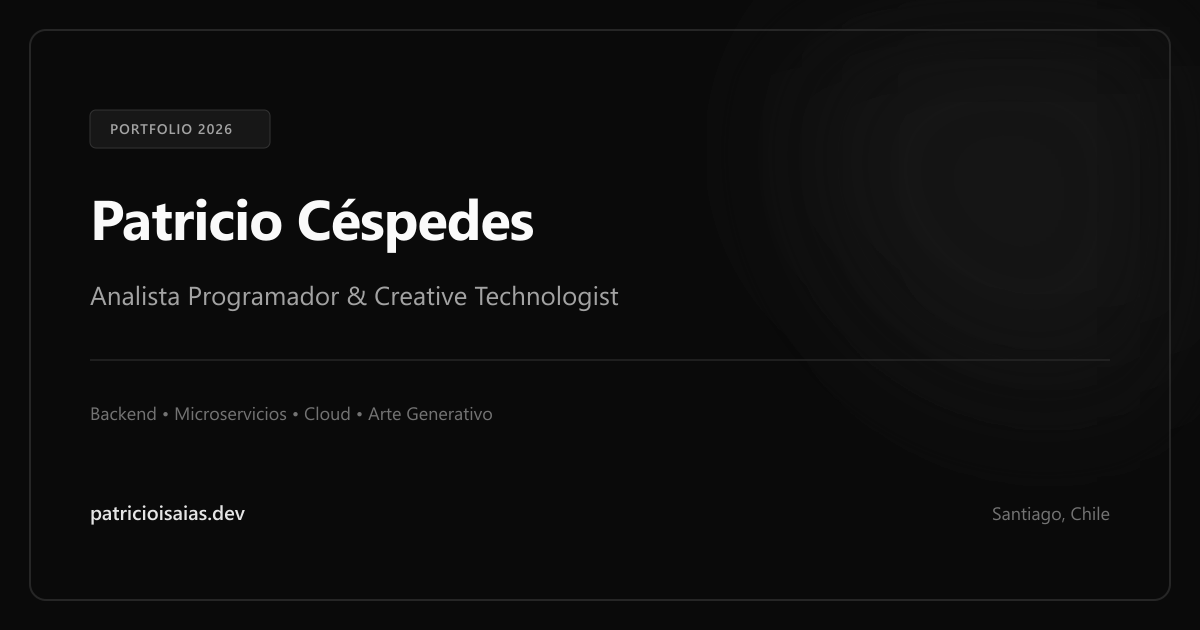
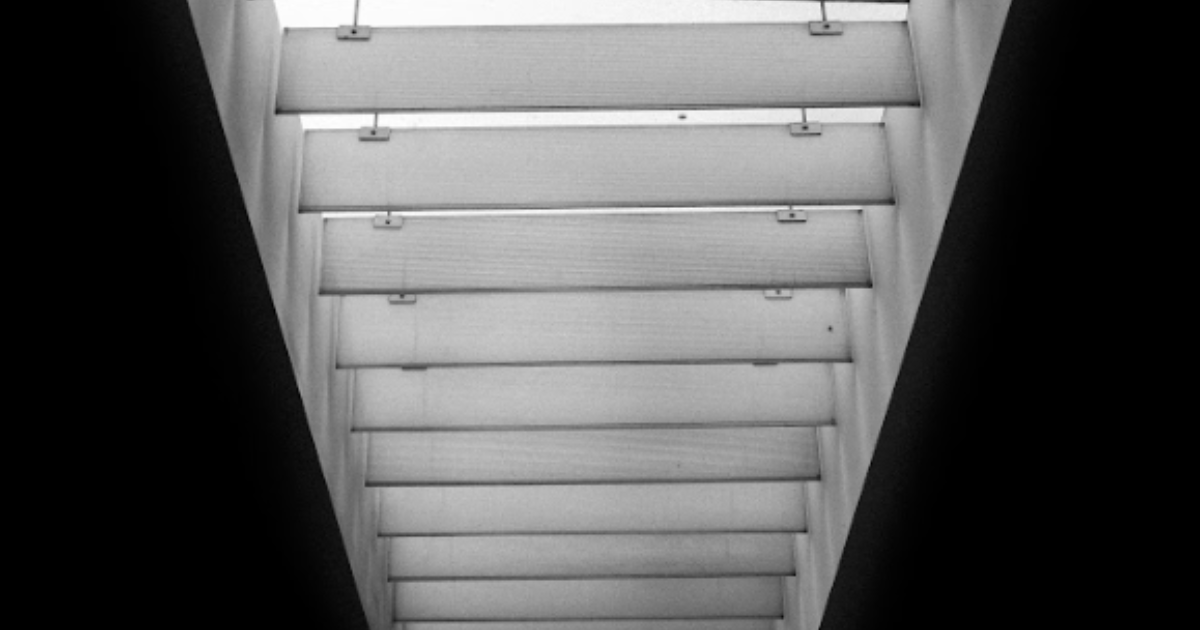
chore: update profile description and og-image

diff --git a/src/site.config.ts b/src/site.config.ts
@@ -21,8 +21,8 @@ export interface SiteConfig {
 
 export const siteConfig: SiteConfig = {
   author: 'Patricio Céspedes',
-  title: 'Patricio Céspedes | Desarrollador & Artista',
-  description: 'Software Engineer enfocado en desarrollo backend, arquitectura de microservicios y despliegue cloud (AWS).',
+  title: 'Patricio Céspedes | Analista Programador y Licenciado en Artes',
+  description: 'Analista Programador y Licenciado en Artes. Backend Developer enfocado en sistemas cloud-native.',
   url: 'https://patriciocespedes.vercel.app',
   status: 'Santiago, Chile',
   navItems: [
